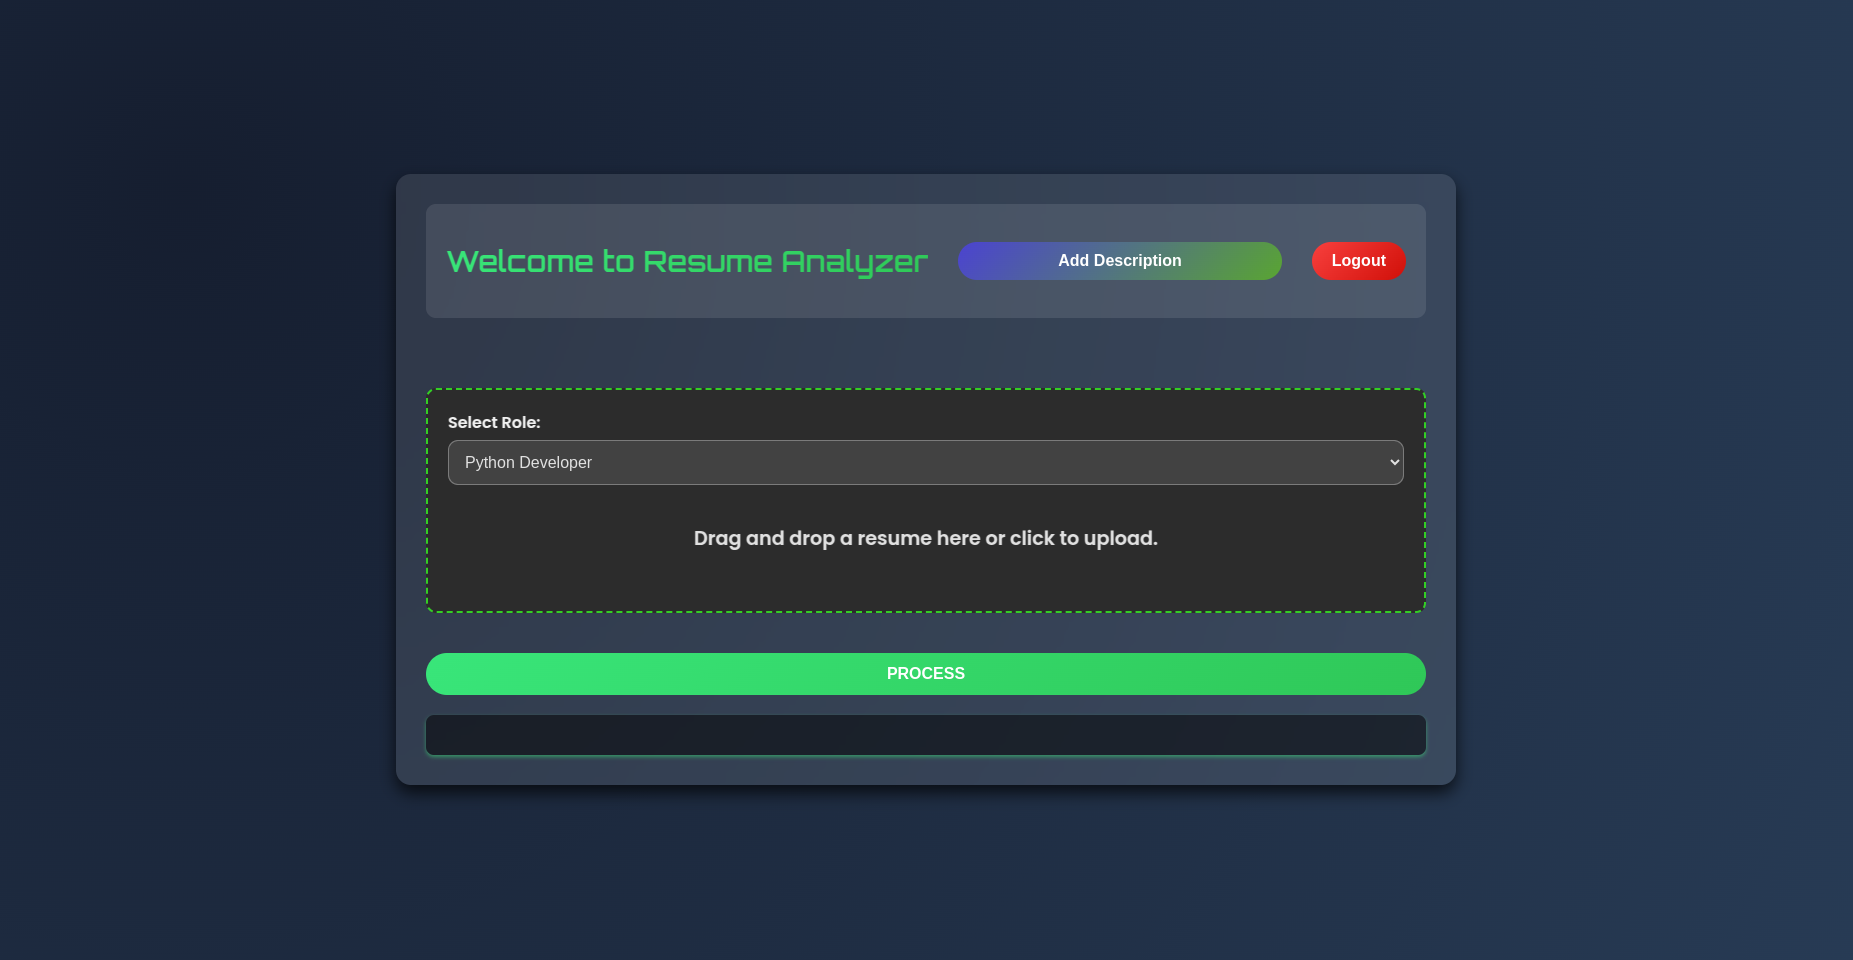
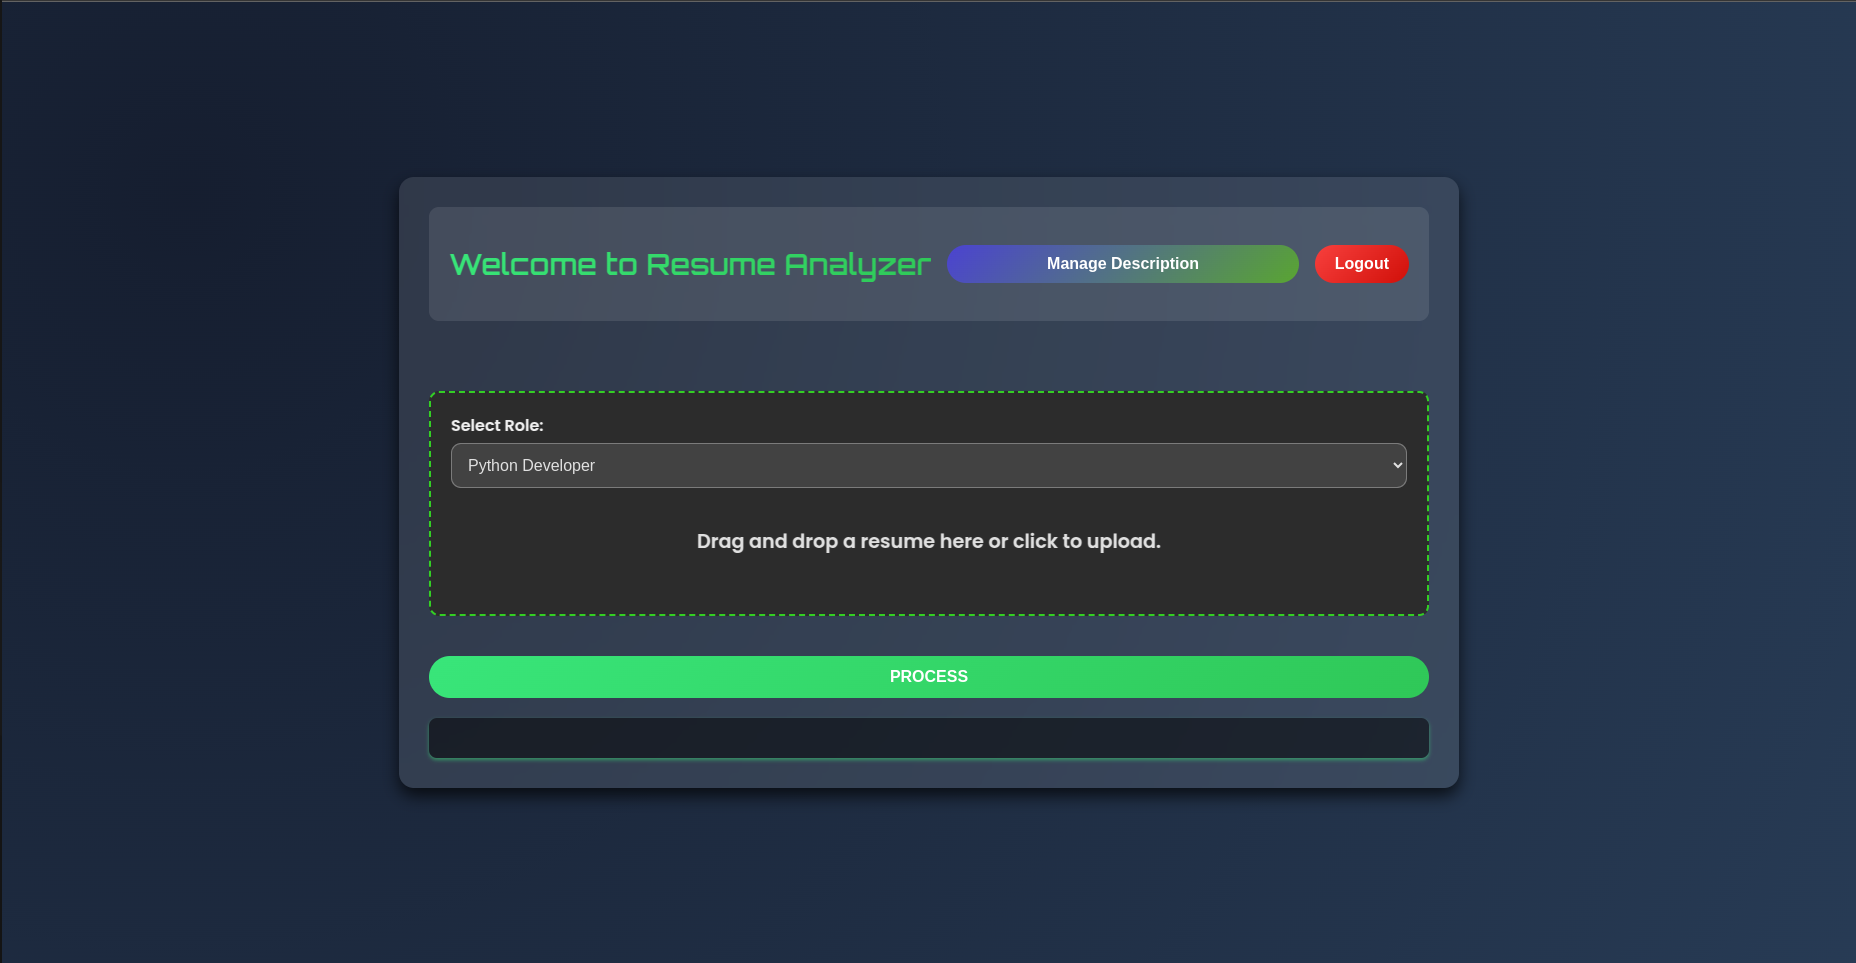
add new functionality to manage description.

diff --git a/templates/description.html b/templates/description.html
@@ -7,7 +7,6 @@
     <title>Add Job Description - Resume Analyzer</title>
     <link href="https://cdn.jsdelivr.net/npm/bootstrap@5.3.2/dist/css/bootstrap.min.css" rel="stylesheet">
     <link rel="stylesheet" href="../static/description.css">
-
 </head>
 
 <body>
@@ -21,7 +20,7 @@
     <div class="container">
         <div class="main-container">
             <h2 class="form-title">Add Job Description</h2>
-            <form action="{{ url_for('description') }}" method="POST">
+            <form action="{{ url_for('addDescription') }}" method="POST">
                 <div class="form-section">
                     <div class="mb-4">
                         <label for="roleName" class="form-label">Role Name</label>
@@ -37,6 +36,28 @@
                 <button type="submit" class="btn-submit">PROCESS</button>
                 <span class="error-message">{{ error_message }}</span>
             </form>
+
+
+
+            <!-- New container for deleting roles -->
+            <form action="{{ url_for('delete_role') }}" method="POST">
+                <div class="delete-role-container mt-4">
+                    <h3 class="form-title">Delete Role</h3>
+                    <form action="{{ url_for('description') }}" method="POST">
+                        <div class="mb-4">
+                            <label for="deleteRoleName" class="form-label">Select Role to Delete</label>
+                            <select class="form-control" id="deleteRoleName" name="role_to_delete" required>
+                                {% for role in roles %}
+                                <option value="{{ role.role_id }}">{{ role.role_name }}</option>
+                                {% endfor %}
+                            </select>
+                        </div>
+                    </form>
+                    <button type="submit" class="btn-delete">DELETE ROLE</button>
+                </div>
+            </form>
+
+
             {% with messages = get_flashed_messages() %}
             {% if messages %}
             <ul class="flashed-messages">
@@ -44,7 +65,7 @@
                 <li>{{ message }}</li>
                 {% endfor %}
             </ul>
-            <meta http-equiv="refresh" content="2;url={{ url_for('dashboard') }}">
+            <meta http-equiv="refresh" content="3;url={{ url_for('dashboard') }}">
             {% endif %}
             {% endwith %}
         </div>

diff --git a/static/description.css b/static/description.css
@@ -33,8 +33,8 @@ body {
 }
 
 .form-control {
-    background-color: rgba(45, 55, 72, 0.95);
-    border: none;
+    background-color: rgb(99 126 141 / 95%);
+    border: 2px dotted #4ecca3;
     color: #fff;
     padding: 1rem;
     border-radius: 8px;
@@ -135,4 +135,14 @@ textarea.form-control {
     color: #f77676;
     font-size: 14px;
     margin-top: 10px;
+}
+
+.btn-delete {
+    color: #060000;
+    background: #bf3b3b;
+    border: 2px solid #000000;
+    border-radius: 11px;
+    height: 40px;
+    width: 1235px;
+    font-weight: bold;
 }

diff --git a/templates/dashboard.html b/templates/dashboard.html
@@ -14,7 +14,7 @@
         <header>
             <h1>Welcome to Resume Analyzer</h1>
             <form action="{{ url_for('description') }}" method="GET">
-                <button class="description-button">Add Description</button>
+                <button class="description-button">Manage Description</button>
             </form>
             <form action="{{ url_for('logout') }}" method="GET">
                 <button class="logout-button">Logout</button>

diff --git a/app.py b/app.py
@@ -177,8 +177,15 @@ def process_resume():
     else:
         return jsonify({'Error' : 'Error procesiing resume'})
     
-@app.route('/description', methods = ['GET','POST']) 
+    
+@app.route('/description', methods = ['GET' , 'POST'])
 def description():
+    roles = RoleRequirement.query.all()
+    return render_template('description.html' , roles = roles)
+
+
+@app.route('/addDescription', methods = ['GET','POST']) 
+def addDescription():
     error_message = ''
     if request.method == 'POST':
         role_name = request.form['role_name']
@@ -193,6 +200,19 @@ def description():
             flash('Role added successfully !')
     return render_template('description.html' , error_message = error_message)  
 
+
+@app.route('/delete_role', methods=['GET','POST'])
+@login_required
+def delete_role():
+    role_id = request.form.get('role_to_delete')
+    
+    delete_id = RoleRequirement.query.get(role_id)
+    db.session.delete(delete_id)
+    db.session.commit()
+    flash(f'Role deleted successfully')
+
+    
+    return redirect(url_for('description'))
 
 def printgd():
     global global_role_description

diff --git a/final.py b/final.py
@@ -1,7 +1,7 @@
 import os
 import shutil
 from langchain_community.document_loaders import UnstructuredPDFLoader
-from langchain_ollama import OllamaLLM, OllamaEmbeddings , ChatOllama
+from langchain_ollama import OllamaLLM, OllamaEmbeddings
 from langchain_text_splitters import RecursiveCharacterTextSplitter
 from langchain_community.vectorstores import Chroma
 from langchain.prompts import ChatPromptTemplate
@@ -28,7 +28,7 @@ def create_vector_db(resume_text):
     """Stores resume and job description embeddings in ChromaDB for retrieval."""
     
 
-    text_splitter = RecursiveCharacterTextSplitter(chunk_size=300, chunk_overlap=100)
+    text_splitter = RecursiveCharacterTextSplitter(chunk_size=300, chunk_overlap=120)
     
     # Split texts
     resume_chunks = text_splitter.split_text(resume_text)

diff --git a/README.md b/README.md
@@ -37,7 +37,7 @@ An intelligent Flask-based web application that leverages state-of-the-art AI mo
 ![Register page](./ScreenShots/register.png)
 ![Dashboard page](./ScreenShots/dashboard.png)
 ![Dashboard_process](./ScreenShots/dashboard_process.png)
-![Add New Description](./ScreenShots/description.png)
+![Manage Role and job Description](./ScreenShots/manage%20description.png)
 ![Response Format](./ScreenShots/result.png)
 
 
